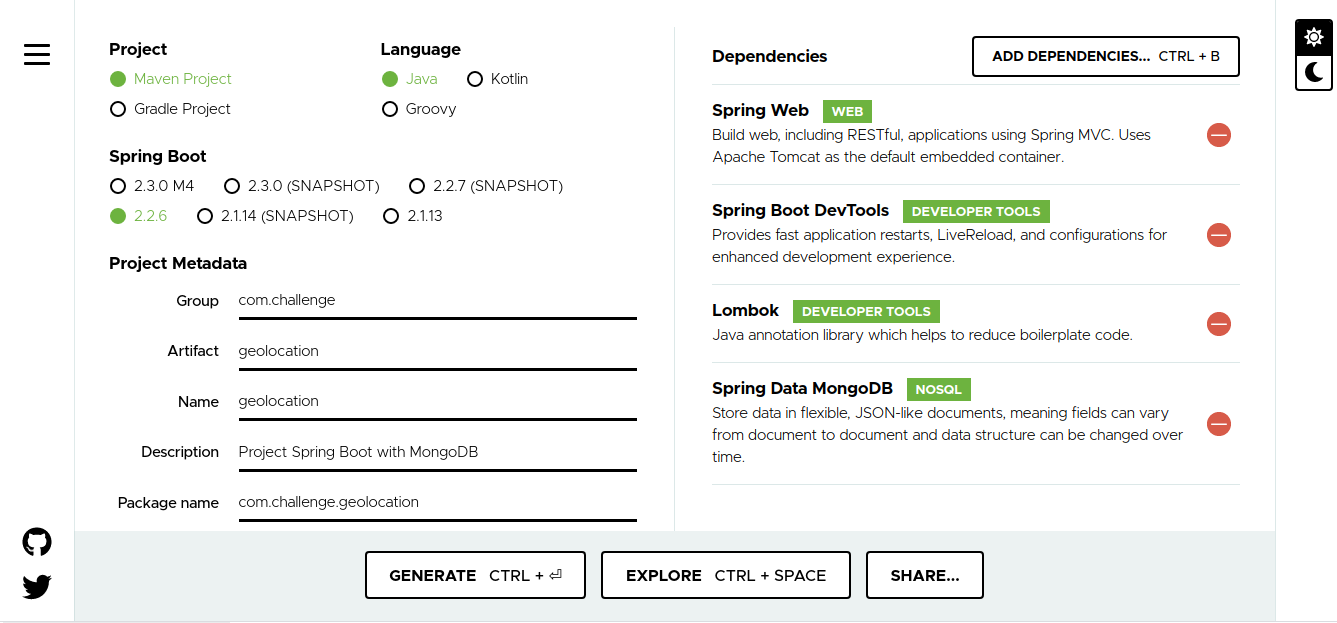
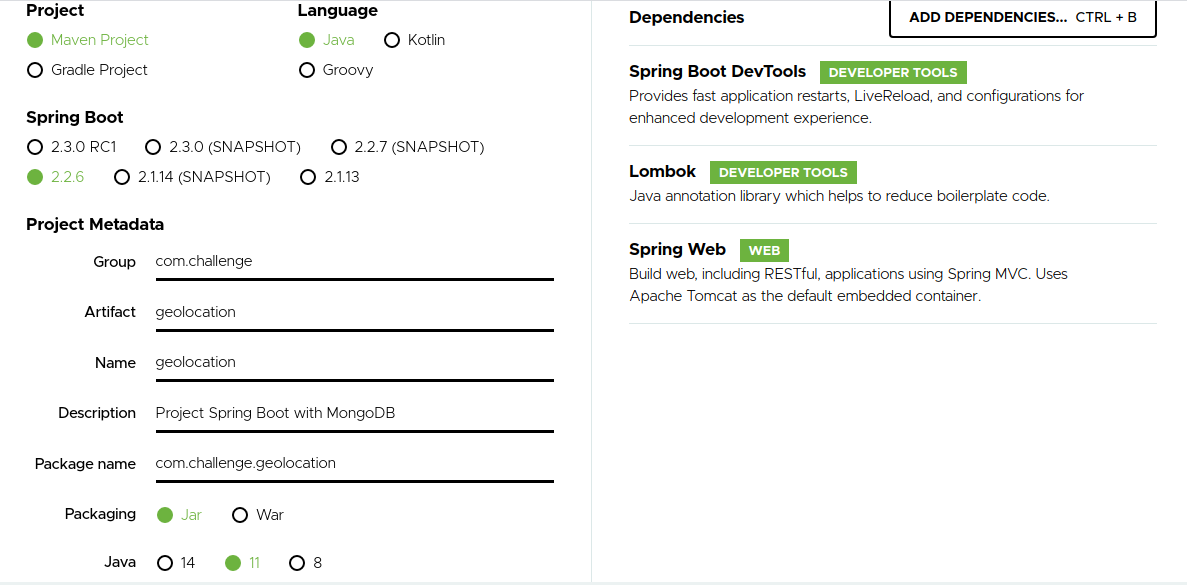
continue post mongo

diff --git a/website/blog/2020-04-25-post-spring-mongo.md b/website/blog/2020-04-25-post-spring-mongo.md
@@ -13,7 +13,7 @@ Aqui faremos só o backend da aplicação e futuramente desenvolveremos o fronte
 
 ## Criando a aplicação Spring Boot
 
-Para isso vamos usar o [Spring Initalizr](https://start.spring.io/), entrando na página escolhemos como queremos iniciar o projeto, aqui eu irei usar o *Spring Web* para poder fazer requisições *Rest*, o *Spring Data MongoDB*, que já nos auxilia fornecendo uma interface para as consultas e os codecs para trabalharmos com os objetos Java e o Mongo, também estou usando *Lombok* e *Spring DevTools* mas são mais pela facilidade que o *Lombok* fornece quando criarmos os nossos **POJOs** e o *DevTools* para podermos usar em desenvolvimento e termos o live reload da aplicação.
+Para isso vamos usar o [Spring Initalizr](https://start.spring.io/), entrando na página escolhemos como queremos iniciar o projeto, aqui eu irei usar o *Spring Web* para poder fazer requisições *Rest*, também estou usando *Lombok* e *Spring DevTools* mas são mais pela facilidade que o *Lombok* fornece quando criarmos os nossos **POJOs** e o *DevTools* para podermos usar em desenvolvimento e termos o live reload da aplicação.
 Então fica mais ou menos assim o projeto:
 ![](assets/spring-initializr.png)
 
@@ -28,13 +28,41 @@ Após isso também precisamos adicionar ao projeto a dependência do **google-se
 
 ```
 
+Também adicione o driver do Mongo ao pom.
+```xml
+<dependency>
+    <groupId>org.mongodb</groupId>
+    <artifactId>mongo-java-driver</artifactId>
+</dependency>
+```
+
 ## Descrição da aplicação
 
 Vamos emular uma rede entregas de alimentos, onde os estabelecimentos estão cadastrados e quando um usuário digitar o seu endereço e ele irá exibir os mais próximos dele.
 
 ## Model
 
-Vamos começar o nosso model com o que seria então o **Estabelecimento** ele possuirá *nome*, *email*, *endereço* e a sua *localização*
+Vamos começar o nosso model com o que seria então o **Estabelecimento** ele possuirá *nome*, *email* e a sua *localização*. Então vou começar criando a classe **Localizacao**.
+
+```java
+package com.challenge.geolocation.model;
+
+import java.util.List;
+
+import lombok.Data;
+
+@Data
+public class Localizacao {
+	
+	private String endereco;
+    private List<Double> coordinates;    
+    private String type = "Point";
+
+}
+```
+
+Aqui temos o endereço mas também temos dois atributos que podem parecer um pouco estranhos o *coordinates* e o *type*. Os dois são necessários quando estamos trabalhando com geolocalização com o Mongo, o primeiro valor *coordinates* é uma lista de **double** contendo a latitude e longitude e o *type* diz respeito a um ponto no mapa, podemos ter outros *types* como **Polygon**.
+Agora criando a nossa classe do estabelecimento propriamente dita.
 
 ```java
 package com.challenge.geolocation.model;
@@ -45,131 +73,203 @@ import org.springframework.data.mongodb.core.mapping.Document;
 
 import lombok.Data;
 
+package com.challenge.geolocation.model;
+
+import org.bson.types.ObjectId;
+
+import lombok.Data;
+
 @Data
-@Document(collection = "estabelecimento")
-public class Estabelecimento {
-	
-	@Id
-	private String id;
+public class Estabelecimento{
+
+	private ObjectId id;
 
 	private String nome;
 	private String email;
-	private String endereco;
-	
-	/**
-	 * {@code location} is stored in GeoJSON format.
-	 *
-	 * <pre>
-	 * <code>
-	 * {
-	 *   "type" : "Point",
-	 *   "coordinates" : [ x, y ]
-	 * }
-	 * </code>
-	 * </pre>
-	 */
-	private GeoJsonPoint location;
+	private Localizacao localizacao;	
 	
 }
 
 ```
 
-Com o uso do *lombok* conseguios reduzir um pouco a verbozidade e com a classe **GeoJsonPoint** conseguimos abstrair detalhes de implementação, pois o **Mongo** exige que para geolocalização exista um array chamados *coordinates* e que seja especificado o seu *type* que nesse caso usamos o **Point** pois é o que representa melhor o que queremos que é justamente um ponto em um mapa.
+Temos aqui a classe **Estabelecimento** composta pela classe **Localizacao** e com os atributos *id* que representa o **ObjectId** do **MongoDB**, o nome e o email, podemos perceber como o uso do *lombok* nos ajuda a reduzir um pouco a verbozidade.
 
-**Existem outros tipos como Polygon por exemplo*
+## Codecs
 
-Criado o nosso model iremos já fazer o inserção desses valores no Mongo:
-
-```json
-
-{
-    "nome" : "Mercado I",
-    "email" : "contato@mercadoI.com",
-    "endereco" : "Rua Brigadeiro Tobias n 780",
-    "location" : {
-        "latitude" : -23.53624,
-        "longitude" : -46.63395
-    }
-}
-
-{
-    "nome" : "Mercado II",
-    "email" : "mercadoII@contato.com",
-    "endereco" : "R. Brg. Tobias, 206 - Santa Ifigênia, São Paulo - SP, 01032-000",
-    "location" : {
-        "latitude" : -23.54165,
-        "longitude" : -46.63583
-    }
-}
-
-{
-    "nome" : "Mercado III",
-    "email" : "mercadoIII@contato.com",
-    "endereco" : "Av. Cásper Líbero, 42 - Centro Histórico De São Paulo, São Paulo - SP, 01033-000",
-    "location" : {
-        "latitude" : -23.54132,
-        "longitude" : -46.63643
-    }
-}
-
-{
-    "nome" : "Mercado IV",
-    "email" : "mercadoIV@contato.com",
-    "endereco" : "Av. Rio Branco, 630 - República, São Paulo - SP, 01205-000",
-    "location" : {
-        "latitude" : -23.53984,
-        "longitude" : -46.64008
-    }
-}
-
-{
-    "nome" : "Mercado V",
-    "email" : "mercadoV@contato.com",
-    "endereco" : "Alameda Barão de Limeira, 425 - Campos Elíseos, São Paulo - SP, 01202-900",
-    "location" : {
-        "latitude" : -23.53386,
-        "longitude" : -46.6482
-    }
-}
-
-{
-    "nome" : "Mercado VI",
-    "email" : "mercadoVI@contato.com",
-    "endereco" : "R. Canuto do Val, 41 - Santa Cecilia, São Paulo - SP, 01224-040",
-    "location" : {
-        "latitude" : -23.54062,
-        "longitude" : -46.65114
-    }
-}
-```
-
-Agora já temos o modelo mapeado na aplicação e os dados no banco de dados.
-
-
-## Repository
-
-Agora passamos para o **Repository** responsável por conter os métodos que farão as consultas e manipulações no nosse schema de dados:
+Agora temos o *Model* criado mas precisamos fazer de alguma forma pra que a nossa aplicação se comunique com o *Mongo*. Aí entra os *codecs*, ele vai ser o responsável por fazer tanto o envio como o recebimento dos objetos do *Mongo*.
+Então vamos criar a classe **EstabelecimentoCodec** que implementa a interface **CollectibleCodec** do tipo **Estabelecimento**:
 
 ```java
-package com.challenge.geolocation.repository;
+package com.challenge.geolocation.codec;
 
-import java.util.List;
-
-import org.springframework.data.mongodb.core.geo.GeoJsonPoint;
-import org.springframework.data.repository.CrudRepository;
-import org.springframework.stereotype.Repository;
+import org.bson.BsonReader;
+import org.bson.BsonValue;
+import org.bson.BsonWriter;
+import org.bson.codecs.CollectibleCodec;
+import org.bson.codecs.DecoderContext;
+import org.bson.codecs.EncoderContext;
 
 import com.challenge.geolocation.model.Estabelecimento;
 
-@Repository
-public interface EstabelecimentoRepository extends CrudRepository<Estabelecimento, String> {
-	
-	List<Estabelecimento> findByLocationWithin(GeoJsonPoint location);
-	
+public class EstabelecimentoCodec implements CollectibleCodec<Estabelecimento>{
+
+	@Override
+	public void encode(BsonWriter writer, Estabelecimento value, EncoderContext encoderContext) {
+		// TODO Auto-generated method stub
+		
+	}
+
+	@Override
+	public Class<Estabelecimento> getEncoderClass() {
+		// TODO Auto-generated method stub
+		return null;
+	}
+
+	@Override
+	public Estabelecimento decode(BsonReader reader, DecoderContext decoderContext) {
+		// TODO Auto-generated method stub
+		return null;
+	}
+
+	@Override
+	public Estabelecimento generateIdIfAbsentFromDocument(Estabelecimento document) {
+		// TODO Auto-generated method stub
+		return null;
+	}
+
+	@Override
+	public boolean documentHasId(Estabelecimento document) {
+		// TODO Auto-generated method stub
+		return false;
+	}
+
+	@Override
+	public BsonValue getDocumentId(Estabelecimento document) {
+		// TODO Auto-generated method stub
+		return null;
+	}
+
 }
-
-
 ```
 
-Como estamos usando *Spring Data* basta criarmos uma *interface* e aqui estendemos da classe **CrudRepository** e definimos o seu tipo como sendo do nosso modelo mapeado e qual o seu id no caso *String* e fazendo uso da feature de *query methods* adicionamos a nossa consulta por geolocalização.
+Agora precisamos começar a implementar o codec a nossa maneira para ele poder fazer o encod e o decode, para isso vamos adicionar a classe **Codec** do pacote *bson* que nos ajuda, vamos tipa-la como um **Document** e vamos adicioná-lo ao construtor para ele ficar como dependência do nosso *codec*:
 
+```java
+import org.bson.Document;
+import org.bson.codecs.Codec;
+
+import com.challenge.geolocation.model.Estabelecimento;
+
+
+public class EstabelecimentoCodec implements CollectibleCodec<Estabelecimento>{
+	
+	private Codec<Document> codec;
+	
+	public EstabelecimentoCodec(Codec<Document> codec) {
+		this.codec = codec;
+	}
+```
+Agora vamos implementar o método responsável por fazer o encode. Aqui é onde dizemos como serão salvo os nossos objetos em Java para um objeto do Mongo:
+```java
+@Override
+public void encode(BsonWriter writer, Estabelecimento estabelecimento, EncoderContext encoder) {
+    Document document = new Document();
+    
+    document.put("_id", estabelecimento.getId());
+    document.put("nome", estabelecimento.getNome());
+    document.put("email", estabelecimento.getEmail());
+    
+    Localizacao localizacao = estabelecimento.getLocalizacao();
+    
+    List<Double> coordinates = new ArrayList<>();
+    localizacao.getCoordinates().forEach(coordinates::add);
+    
+    document.put("localizacao", new Document()
+            .append("endereco", localizacao.getEndereco())
+            .append("coordinates", coordinates)
+            .append("type", localizacao.getType()));
+    
+    codec.encode(writer, document, encoder);
+}
+```
+
+E aqui é onde impletamos o decode, como o Java vai interpretar o objeto retornado do Mongo:
+```java
+@Override
+public Estabelecimento decode(BsonReader reader, DecoderContext decoderContext) {
+    
+    Document document = codec.decode(reader, decoderContext);
+    
+    Estabelecimento estabelecimento = new Estabelecimento();
+    estabelecimento.setId(document.getObjectId("_id"));
+    estabelecimento.setNome(document.getString("nome"));
+    estabelecimento.setEmail(document.getString("email"));
+    
+    Document localizacao = (Document) document.get("localizacao");
+    if(localizacao != null) {
+        String endereco = localizacao.getString("endereco");
+        @SuppressWarnings("unchecked")
+        List<Double> coordinates = (List<Double>) localizacao.get("coordinates");
+        
+        Localizacao localizacaoEntity = new Localizacao();
+        localizacaoEntity.setEndereco(endereco);
+        localizacaoEntity.setCoordinates(coordinates);
+        
+        estabelecimento.setLocalizacao(localizacaoEntity);
+    }
+    
+    return estabelecimento;
+}
+```
+
+E temos os outros métodos que implementamos para que o codec consiga fazer a gerência dos objetos:
+```java
+@Override
+public Class<Estabelecimento> getEncoderClass() {
+    return Estabelecimento.class;
+}
+
+@Override
+public Estabelecimento generateIdIfAbsentFromDocument(Estabelecimento estabelecimento) {
+    return documentHasId(estabelecimento) ? estabelecimento.generateId() : estabelecimento;
+}
+
+@Override
+public boolean documentHasId(Estabelecimento estabelecimento) {
+    return estabelecimento.getId() == null;
+}
+
+@Override
+public BsonValue getDocumentId(Estabelecimento estabelecimento) {
+    if (!documentHasId(estabelecimento)) {
+        throw new IllegalStateException("This Document do not have a id");
+    }
+    
+    return new BsonString(estabelecimento.getId().toHexString());
+}
+```
+
+A única coisa aqui a ressaltar foi a criação do método *generateId* no model **Estabelecimento** que fica assim:
+```java
+package com.challenge.geolocation.model;
+
+import org.bson.types.ObjectId;
+
+import lombok.Data;
+
+@Data
+public class Estabelecimento{
+
+	private ObjectId id;
+
+	private String nome;
+	private String email;
+	private Localizacao localizacao;	
+	
+	public Estabelecimento generateId() {
+		this.setId(new ObjectId());
+		return this;
+	}
+	
+}
+```
